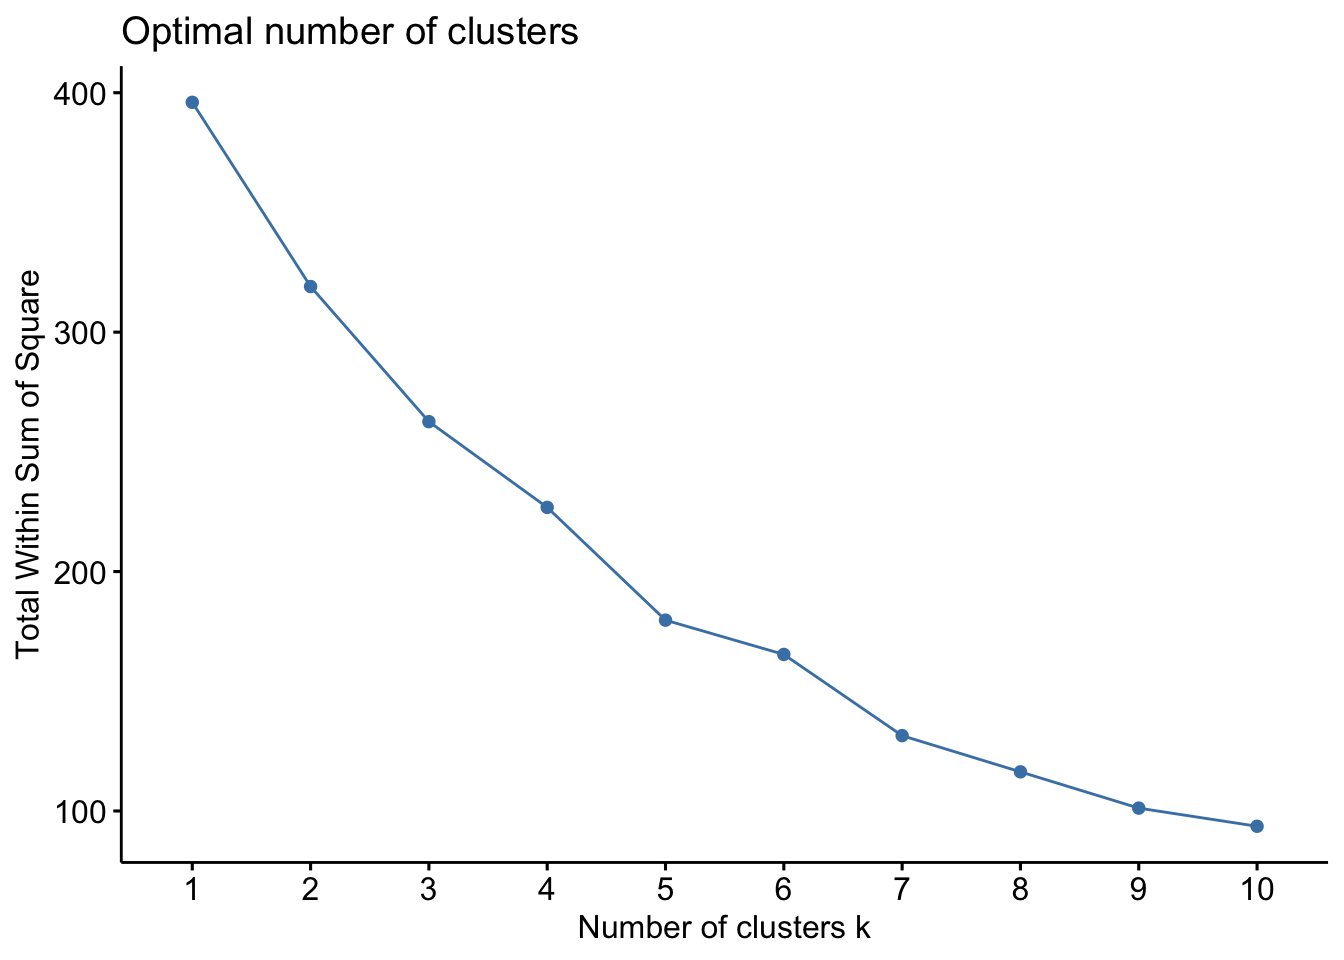
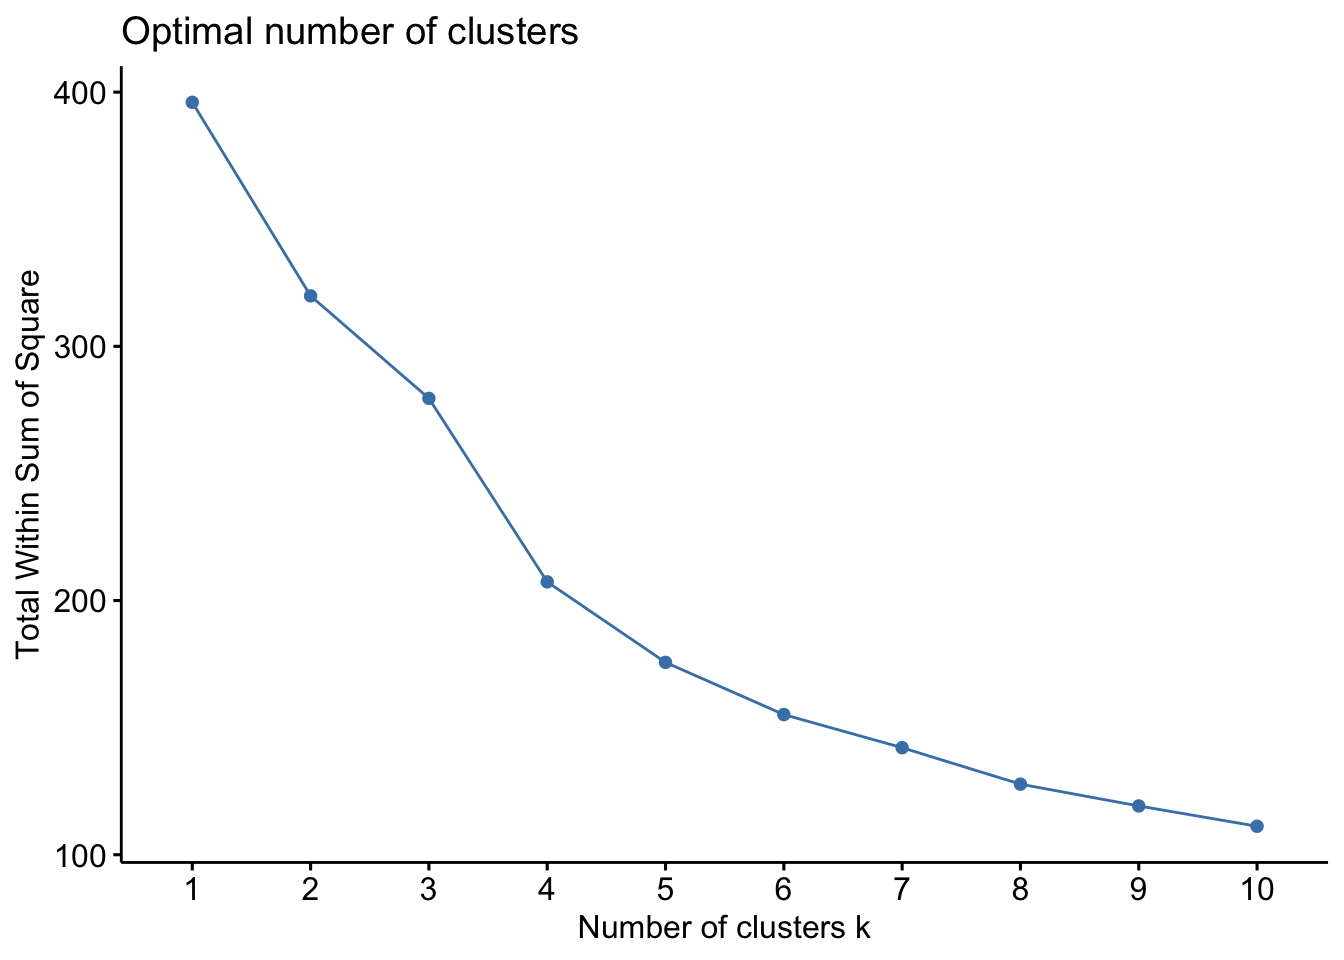
cluster analysis

diff --git a/_book/cluster-analysis-1.html b/_book/cluster-analysis-1.html
@@ -5,11 +5,11 @@
 
   <meta charset="UTF-8">
   <meta http-equiv="X-UA-Compatible" content="IE=edge">
-  <title>Chapter 5 Cluster Analysis | An Analysis of Weather Influence on Air Traffic Flows in Changi</title>
-  <meta name="description" content="Chapter 5 Cluster Analysis | An Analysis of Weather Influence on Air Traffic Flows in Changi">
+  <title>Chapter 4 Cluster Analysis | An Analysis of Weather Influence on Air Traffic Flows in Changi</title>
+  <meta name="description" content="Chapter 4 Cluster Analysis | An Analysis of Weather Influence on Air Traffic Flows in Changi">
   <meta name="generator" content="bookdown  and GitBook 2.6.7">
 
-  <meta property="og:title" content="Chapter 5 Cluster Analysis | An Analysis of Weather Influence on Air Traffic Flows in Changi" />
+  <meta property="og:title" content="Chapter 4 Cluster Analysis | An Analysis of Weather Influence on Air Traffic Flows in Changi" />
   <meta property="og:type" content="book" />
   
   
@@ -17,7 +17,7 @@
   
 
   <meta name="twitter:card" content="summary" />
-  <meta name="twitter:title" content="Chapter 5 Cluster Analysis | An Analysis of Weather Influence on Air Traffic Flows in Changi" />
+  <meta name="twitter:title" content="Chapter 4 Cluster Analysis | An Analysis of Weather Influence on Air Traffic Flows in Changi" />
   
   
   
@@ -32,8 +32,8 @@
   <meta name="apple-mobile-web-app-status-bar-style" content="black">
   
   
-<link rel="prev" href="multidimensional-scaling.html">
-<link rel="next" href="findings.html">
+<link rel="prev" href="multiple-regression.html">
+<link rel="next" href="future-studies-conclusion.html">
 <script src="libs/jquery-2.2.3/jquery.min.js"></script>
 <link href="libs/gitbook-2.6.7/css/style.css" rel="stylesheet" />
 <link href="libs/gitbook-2.6.7/css/plugin-table.css" rel="stylesheet" />
@@ -111,10 +111,14 @@ code > span.in { color: #60a0b0; font-weight: bold; font-style: italic; } /* Inf
 </ul></li>
 <li class="chapter" data-level="2" data-path="data-tidying.html"><a href="data-tidying.html"><i class="fa fa-check"></i><b>2</b> Data Tidying</a></li>
 <li class="chapter" data-level="3" data-path="multiple-regression.html"><a href="multiple-regression.html"><i class="fa fa-check"></i><b>3</b> Multiple Regression</a></li>
-<li class="chapter" data-level="4" data-path="multidimensional-scaling.html"><a href="multidimensional-scaling.html"><i class="fa fa-check"></i><b>4</b> Multidimensional Scaling</a></li>
-<li class="chapter" data-level="5" data-path="cluster-analysis-1.html"><a href="cluster-analysis-1.html"><i class="fa fa-check"></i><b>5</b> Cluster Analysis</a></li>
-<li class="chapter" data-level="6" data-path="findings.html"><a href="findings.html"><i class="fa fa-check"></i><b>6</b> Findings</a></li>
-<li class="chapter" data-level="7" data-path="conclusion.html"><a href="conclusion.html"><i class="fa fa-check"></i><b>7</b> Conclusion</a></li>
+<li class="chapter" data-level="4" data-path="cluster-analysis-1.html"><a href="cluster-analysis-1.html"><i class="fa fa-check"></i><b>4</b> Cluster Analysis</a><ul>
+<li class="chapter" data-level="4.1" data-path="cluster-analysis-1.html"><a href="cluster-analysis-1.html#k-means-clustering"><i class="fa fa-check"></i><b>4.1</b> K-Means Clustering</a><ul>
+<li class="chapter" data-level="" data-path="cluster-analysis-1.html"><a href="cluster-analysis-1.html#daily-traffic-weather-data"><i class="fa fa-check"></i>Daily Traffic &amp; Weather Data</a></li>
+<li class="chapter" data-level="" data-path="cluster-analysis-1.html"><a href="cluster-analysis-1.html#hourly-traffic-weather-data"><i class="fa fa-check"></i>Hourly Traffic &amp; Weather Data</a></li>
+</ul></li>
+<li class="chapter" data-level="4.2" data-path="cluster-analysis-1.html"><a href="cluster-analysis-1.html#data-analysis"><i class="fa fa-check"></i><b>4.2</b> Data Analysis</a></li>
+</ul></li>
+<li class="chapter" data-level="5" data-path="future-studies-conclusion.html"><a href="future-studies-conclusion.html"><i class="fa fa-check"></i><b>5</b> Future Studies &amp; Conclusion</a></li>
 <li class="divider"></li>
 <li><a href="https://github.com/rstudio/bookdown" target="blank">Published with bookdown</a></li>
 
@@ -136,85 +140,12 @@ code > span.in { color: #60a0b0; font-weight: bold; font-style: italic; } /* Inf
 
             <section class="normal" id="section-">
 <div id="cluster-analysis-1" class="section level1">
-<h1><span class="header-section-number">Chapter 5</span> Cluster Analysis</h1>
-<div class="sourceCode"><pre class="sourceCode r"><code class="sourceCode r"><span class="co">#Weather data - July 2018 to February 2019 (daily summaries)</span>
-changi_daily_weather &lt;-<span class="st"> </span><span class="kw">read_excel</span>(here<span class="op">::</span><span class="kw">here</span>(<span class="st">&quot;Data/daily_weather_changi.xlsx&quot;</span>)) <span class="op">%&gt;%</span><span class="st"> </span>
-<span class="st">  </span><span class="kw">mutate</span>(<span class="dt">date=</span><span class="kw">date</span>(date))
-
-<span class="co"># Changi traffic data - July 2018 to February 2019 (hourly data)</span>
-changi_stats &lt;-<span class="st"> </span><span class="kw">read_excel</span>(here<span class="op">::</span><span class="kw">here</span>(<span class="st">&quot;Data/changi_stats.xlsx&quot;</span>))
-
-<span class="co">#Changi Weather and Traffic data - July 2018 to February 2019 (hourly data)</span>
-changi_hourly_weather&lt;-<span class="kw">read_excel</span>(here<span class="op">::</span><span class="kw">here</span>(<span class="st">&quot;Data/weather_june18_feb19.xlsx&quot;</span>)) 
-
-
-changi_hourly_weather &lt;-changi_hourly_weather <span class="op">%&gt;%</span><span class="st"> </span>
-<span class="st">  </span><span class="kw">mutate</span>(<span class="dt">total_tfc =</span> departure_tfc<span class="op">+</span>arrival_tfc)</code></pre></div>
-<div class="sourceCode"><pre class="sourceCode r"><code class="sourceCode r">hourly_stats_weather &lt;-changi_hourly_weather <span class="op">%&gt;%</span><span class="st"> </span>
-<span class="st">  </span><span class="kw">mutate</span>(<span class="dt">hour =</span> <span class="kw">hour</span>(local_time)) <span class="op">%&gt;%</span><span class="st"> </span>
-<span class="st">  </span><span class="kw">mutate</span>(<span class="dt">date =</span> <span class="kw">date</span>(local_time))</code></pre></div>
-<div class="sourceCode"><pre class="sourceCode r"><code class="sourceCode r">changi_stats &lt;-<span class="st"> </span><span class="kw">read_excel</span>(here<span class="op">::</span><span class="kw">here</span>(<span class="st">&quot;Data/changi_stats.xlsx&quot;</span>)) <span class="op">%&gt;%</span><span class="st"> </span>
-<span class="st">  </span><span class="kw">mutate</span>(<span class="dt">daily_tfc =</span> departure_tfc<span class="op">+</span>arrival_tfc) <span class="op">%&gt;%</span><span class="st"> </span>
-<span class="st">  </span><span class="kw">mutate</span>(<span class="dt">date =</span> <span class="kw">date</span>(local_time))
-
-
-daily_tfc_flow&lt;-changi_stats <span class="op">%&gt;%</span><span class="st"> </span>
-<span class="st">  </span><span class="kw">group_by</span>(date) <span class="op">%&gt;%</span><span class="st"> </span>
-<span class="st">  </span><span class="kw">summarise</span>(<span class="dt">daily_tfc =</span> <span class="kw">sum</span>(daily_tfc))
-
-daily_stats_weather &lt;-<span class="st"> </span><span class="kw">left_join</span>(changi_daily_weather, daily_tfc_flow)</code></pre></div>
-<pre><code>## Joining, by = &quot;date&quot;</code></pre>
-<div class="sourceCode"><pre class="sourceCode r"><code class="sourceCode r">data&lt;-<span class="st"> </span><span class="kw">left_join</span>(hourly_stats_weather, daily_stats_weather, <span class="dt">by =</span> <span class="st">&quot;date&quot;</span>)</code></pre></div>
-<div class="sourceCode"><pre class="sourceCode r"><code class="sourceCode r">hourly_cluster_data&lt;-hourly_stats_weather <span class="op">%&gt;%</span><span class="st"> </span>
-<span class="st">  </span><span class="kw">select</span>(<span class="op">-</span>date, <span class="op">-</span>hour, <span class="op">-</span>weather_id, <span class="op">-</span>weather_description, <span class="op">-</span>weather_main) <span class="op">%&gt;%</span><span class="st"> </span>
-<span class="st">  </span><span class="kw">sample_n</span>(<span class="dv">100</span>)
-
-hourly_cluster_data&lt;-hourly_cluster_data <span class="op">%&gt;%</span><span class="st"> </span>
-<span class="st">  </span><span class="kw">column_to_rownames</span>(<span class="dt">var =</span> <span class="st">&quot;local_time&quot;</span>)</code></pre></div>
-<div class="sourceCode"><pre class="sourceCode r"><code class="sourceCode r">fa_daily_stats &lt;-<span class="st"> </span>daily_stats_weather <span class="op">%&gt;%</span><span class="st"> </span>
-<span class="st">  </span><span class="kw">sample_n</span>(<span class="dv">100</span>) <span class="op">%&gt;%</span><span class="st"> </span>
-<span class="st">  </span><span class="kw">column_to_rownames</span>(<span class="dt">var =</span> <span class="st">&quot;date&quot;</span>) <span class="op">%&gt;%</span><span class="st"> </span>
-<span class="st">  </span><span class="kw">select</span>(daily_rainfall_mm, daily_tfc, daily_wind_speed, <span class="st">`</span><span class="dt">30min_rainfall_mm</span><span class="st">`</span>, <span class="st">`</span><span class="dt">60min_rainfall_mm</span><span class="st">`</span>, temp_mean_daily, daily_max_wind_speed) <span class="op">%&gt;%</span><span class="st"> </span>
-<span class="st">  </span><span class="kw">principal</span>(<span class="dt">nfactors =</span> <span class="dv">4</span>, <span class="dt">rotate =</span> <span class="st">&quot;varimax&quot;</span>)
-
-fa_daily_stats</code></pre></div>
-<pre><code>## Principal Components Analysis
-## Call: principal(r = ., nfactors = 4, rotate = &quot;varimax&quot;)
-## Standardized loadings (pattern matrix) based upon correlation matrix
-##                        RC1   RC4   RC2   RC3   h2     u2 com
-## daily_rainfall_mm     0.95 -0.21 -0.08 -0.02 0.96 0.0443 1.1
-## daily_tfc            -0.07  0.05  0.00  1.00 1.00 0.0016 1.0
-## daily_wind_speed     -0.18  0.80  0.42  0.09 0.86 0.1415 1.7
-## 30min_rainfall_mm     0.96 -0.23 -0.04 -0.06 0.97 0.0304 1.1
-## 60min_rainfall_mm     0.97 -0.19 -0.06 -0.07 0.99 0.0124 1.1
-## temp_mean_daily      -0.33  0.89  0.03  0.00 0.90 0.0986 1.3
-## daily_max_wind_speed -0.06  0.20  0.97  0.00 0.98 0.0246 1.1
-## 
-##                        RC1  RC4  RC2  RC3
-## SS loadings           2.91 1.60 1.12 1.01
-## Proportion Var        0.42 0.23 0.16 0.14
-## Cumulative Var        0.42 0.64 0.81 0.95
-## Proportion Explained  0.44 0.24 0.17 0.15
-## Cumulative Proportion 0.44 0.68 0.85 1.00
-## 
-## Mean item complexity =  1.2
-## Test of the hypothesis that 4 components are sufficient.
-## 
-## The root mean square of the residuals (RMSR) is  0.03 
-##  with the empirical chi square  4.62  with prob &lt;  NA 
-## 
-## Fit based upon off diagonal values = 1</code></pre>
-<div class="sourceCode"><pre class="sourceCode r"><code class="sourceCode r">fa_daily_stats[[<span class="st">&#39;scores&#39;</span>]] <span class="op">%&gt;%</span><span class="st"> </span>
-<span class="st">  </span><span class="kw">unclass</span>() <span class="op">%&gt;%</span><span class="st"> </span>
-<span class="st">  </span><span class="kw">as_tibble</span>(<span class="dt">rownames =</span> <span class="st">&quot;date&quot;</span>) <span class="op">%&gt;%</span>
-<span class="st">  </span><span class="kw">ggplot</span>(<span class="kw">aes</span>(<span class="dt">x =</span> RC1, <span class="dt">y =</span> RC2)) <span class="op">+</span><span class="st"> </span><span class="kw">geom_text</span>(<span class="kw">aes</span>(<span class="dt">label =</span> date))</code></pre></div>
-<p><img src="bookdown-demo_files/figure-html/unnamed-chunk-10-1.png" width="672" /></p>
-<div class="sourceCode"><pre class="sourceCode r"><code class="sourceCode r"><span class="kw">fviz_nbclust</span>(fa_hourly_cluster, kmeans, <span class="dt">method =</span> <span class="st">&quot;wss&quot;</span>)</code></pre></div>
-<p><img src="bookdown-demo_files/figure-html/unnamed-chunk-13-1.png" width="672" /></p>
-<div class="sourceCode"><pre class="sourceCode r"><code class="sourceCode r">hourly_kmeans_clusters &lt;-<span class="st"> </span><span class="kw">kmeans</span>(fa_hourly_cluster, <span class="dt">centers =</span> <span class="dv">7</span>, <span class="dt">nstart =</span> <span class="dv">50</span>)
-
-<span class="kw">fviz_cluster</span>(hourly_kmeans_clusters, <span class="dt">data =</span> fa_hourly_cluster)</code></pre></div>
-<p><img src="bookdown-demo_files/figure-html/unnamed-chunk-14-1.png" width="672" /></p>
+<h1><span class="header-section-number">Chapter 4</span> Cluster Analysis</h1>
+<div id="k-means-clustering" class="section level2">
+<h2><span class="header-section-number">4.1</span> K-Means Clustering</h2>
+<p>A k-means clustering is a user-defined clustering algorithm that iteratively changes its centroid based on the lowest total sum of square distances between the centroids and each data point. We use this to help evaluate our visual check of clusters in the factor analysis conducted earlier.</p>
+<div id="daily-traffic-weather-data" class="section level3 unnumbered">
+<h3>Daily Traffic &amp; Weather Data</h3>
 <div class="sourceCode"><pre class="sourceCode r"><code class="sourceCode r">fa_daily_cluster&lt;-fa_daily_stats[[<span class="st">&#39;scores&#39;</span>]] <span class="op">%&gt;%</span><span class="st"> </span>
 <span class="st">  </span><span class="kw">unclass</span>() <span class="op">%&gt;%</span><span class="st"> </span>
 <span class="st">  </span><span class="kw">as_tibble</span>(<span class="dt">rownames =</span> <span class="st">&quot;date&quot;</span>)
@@ -222,21 +153,54 @@ fa_daily_stats</code></pre></div>
 
 fa_daily_cluster&lt;-fa_daily_cluster <span class="op">%&gt;%</span><span class="st"> </span>
 <span class="st">  </span><span class="kw">column_to_rownames</span>(<span class="dt">var =</span> <span class="st">&quot;date&quot;</span>)</code></pre></div>
+<div id="optimal-number-of-clusters" class="section level4 unnumbered">
+<h4>Optimal Number of Clusters</h4>
+<p>We use two methods to determine the optimal number of clusters based on the lowest possible value total within sum of square distance between the centroid and each data point in the cluster. For the daily weather and traffic flow data set, we choose number of clusters = 7.</p>
 <div class="sourceCode"><pre class="sourceCode r"><code class="sourceCode r"><span class="kw">fviz_nbclust</span>(fa_daily_cluster, kmeans, <span class="dt">method =</span> <span class="st">&quot;wss&quot;</span>)</code></pre></div>
-<p><img src="bookdown-demo_files/figure-html/unnamed-chunk-16-1.png" width="672" /></p>
-<div class="sourceCode"><pre class="sourceCode r"><code class="sourceCode r">daily_kmeans_clusters &lt;-<span class="st"> </span><span class="kw">kmeans</span>(fa_daily_cluster, <span class="dt">centers =</span> <span class="dv">5</span>, <span class="dt">nstart =</span> <span class="dv">50</span>)
+<p><img src="bookdown-demo_files/figure-html/unnamed-chunk-13-1.png" width="672" /></p>
+<div class="sourceCode"><pre class="sourceCode r"><code class="sourceCode r"><span class="kw">fviz_nbclust</span>(fa_daily_cluster, kmeans, <span class="dt">method =</span> <span class="st">&quot;silhouette&quot;</span>)</code></pre></div>
+<p><img src="bookdown-demo_files/figure-html/unnamed-chunk-14-1.png" width="672" /></p>
+<div class="sourceCode"><pre class="sourceCode r"><code class="sourceCode r">daily_kmeans_clusters &lt;-<span class="st"> </span><span class="kw">kmeans</span>(fa_daily_cluster, <span class="dt">centers =</span> <span class="dv">7</span>, <span class="dt">nstart =</span> <span class="dv">50</span>)
 
 <span class="kw">fviz_cluster</span>(daily_kmeans_clusters, <span class="dt">data =</span> fa_daily_cluster)</code></pre></div>
-<p><img src="bookdown-demo_files/figure-html/unnamed-chunk-17-1.png" width="672" /></p>
+<p><img src="bookdown-demo_files/figure-html/unnamed-chunk-15-1.png" width="672" /></p>
+</div>
+</div>
+<div id="hourly-traffic-weather-data" class="section level3 unnumbered">
+<h3>Hourly Traffic &amp; Weather Data</h3>
+<div class="sourceCode"><pre class="sourceCode r"><code class="sourceCode r">fa_hourly_cluster&lt;-fa_hourly_stats[[<span class="st">&#39;scores&#39;</span>]] <span class="op">%&gt;%</span><span class="st"> </span>
+<span class="st">  </span><span class="kw">unclass</span>() <span class="op">%&gt;%</span><span class="st"> </span>
+<span class="st">  </span><span class="kw">as_tibble</span>(<span class="dt">rownames =</span> <span class="st">&quot;local_time&quot;</span>)
 
+fa_hourly_cluster&lt;-fa_hourly_cluster <span class="op">%&gt;%</span><span class="st"> </span>
+<span class="st">  </span><span class="kw">column_to_rownames</span>(<span class="dt">var =</span> <span class="st">&quot;local_time&quot;</span>)</code></pre></div>
+<div id="optimal-number-of-clusters-1" class="section level4 unnumbered">
+<h4>Optimal Number of Clusters</h4>
+<p>The optimal number of clusters chosen for the hourly weather data set is 4, to maximise the total distance within sum of squares</p>
+<div class="sourceCode"><pre class="sourceCode r"><code class="sourceCode r"><span class="kw">fviz_nbclust</span>(fa_hourly_cluster, kmeans, <span class="dt">method =</span> <span class="st">&quot;wss&quot;</span>)</code></pre></div>
+<p><img src="bookdown-demo_files/figure-html/unnamed-chunk-17-1.png" width="672" /></p>
+<div class="sourceCode"><pre class="sourceCode r"><code class="sourceCode r"><span class="kw">fviz_nbclust</span>(fa_hourly_cluster, kmeans, <span class="dt">method =</span> <span class="st">&quot;silhouette&quot;</span>)</code></pre></div>
+<p><img src="bookdown-demo_files/figure-html/unnamed-chunk-18-1.png" width="672" /></p>
+<div class="sourceCode"><pre class="sourceCode r"><code class="sourceCode r">hourly_kmeans_clusters &lt;-<span class="st"> </span><span class="kw">kmeans</span>(fa_hourly_cluster, <span class="dt">centers =</span> <span class="dv">4</span>, <span class="dt">nstart =</span> <span class="dv">50</span>)
+
+<span class="kw">fviz_cluster</span>(hourly_kmeans_clusters, <span class="dt">data =</span> fa_hourly_cluster)</code></pre></div>
+<p><img src="bookdown-demo_files/figure-html/unnamed-chunk-19-1.png" width="672" /></p>
+</div>
+</div>
+</div>
+<div id="data-analysis" class="section level2">
+<h2><span class="header-section-number">4.2</span> Data Analysis</h2>
+<p>The k-means clustering analysis on both data set indicate there is a categorical similarity between data points. These may indicate</p>
+
+</div>
 </div>
             </section>
 
           </div>
         </div>
       </div>
-<a href="multidimensional-scaling.html" class="navigation navigation-prev " aria-label="Previous page"><i class="fa fa-angle-left"></i></a>
-<a href="findings.html" class="navigation navigation-next " aria-label="Next page"><i class="fa fa-angle-right"></i></a>
+<a href="multiple-regression.html" class="navigation navigation-prev " aria-label="Previous page"><i class="fa fa-angle-left"></i></a>
+<a href="future-studies-conclusion.html" class="navigation navigation-next " aria-label="Next page"><i class="fa fa-angle-right"></i></a>
     </div>
   </div>
 <script src="libs/gitbook-2.6.7/js/app.min.js"></script>
